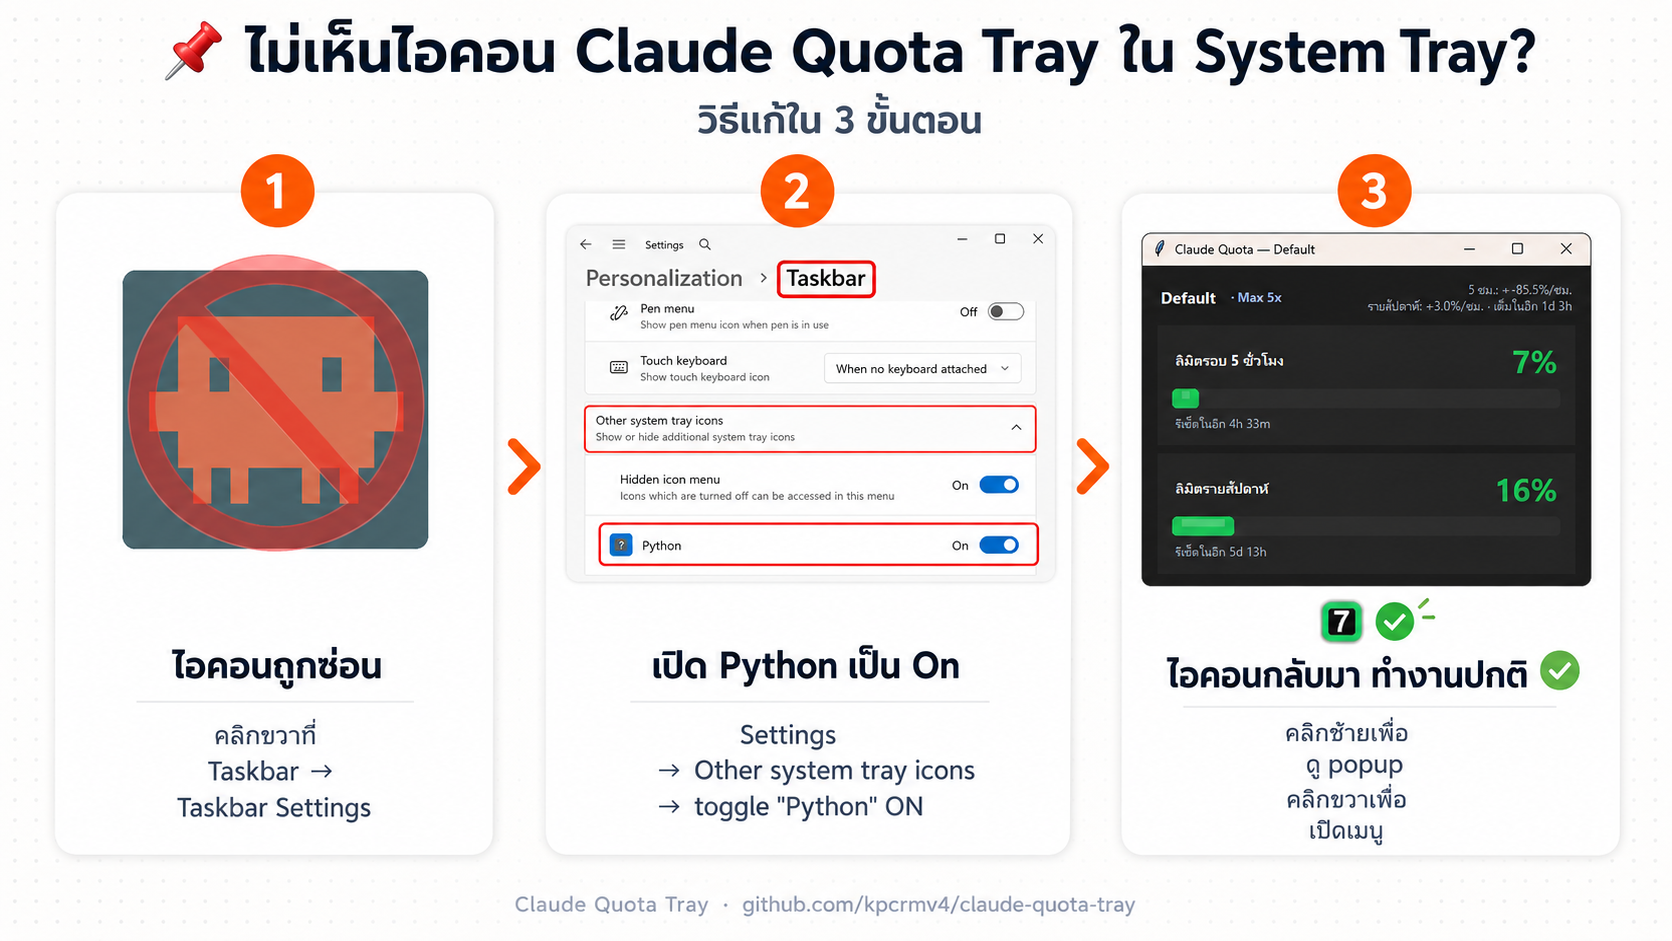
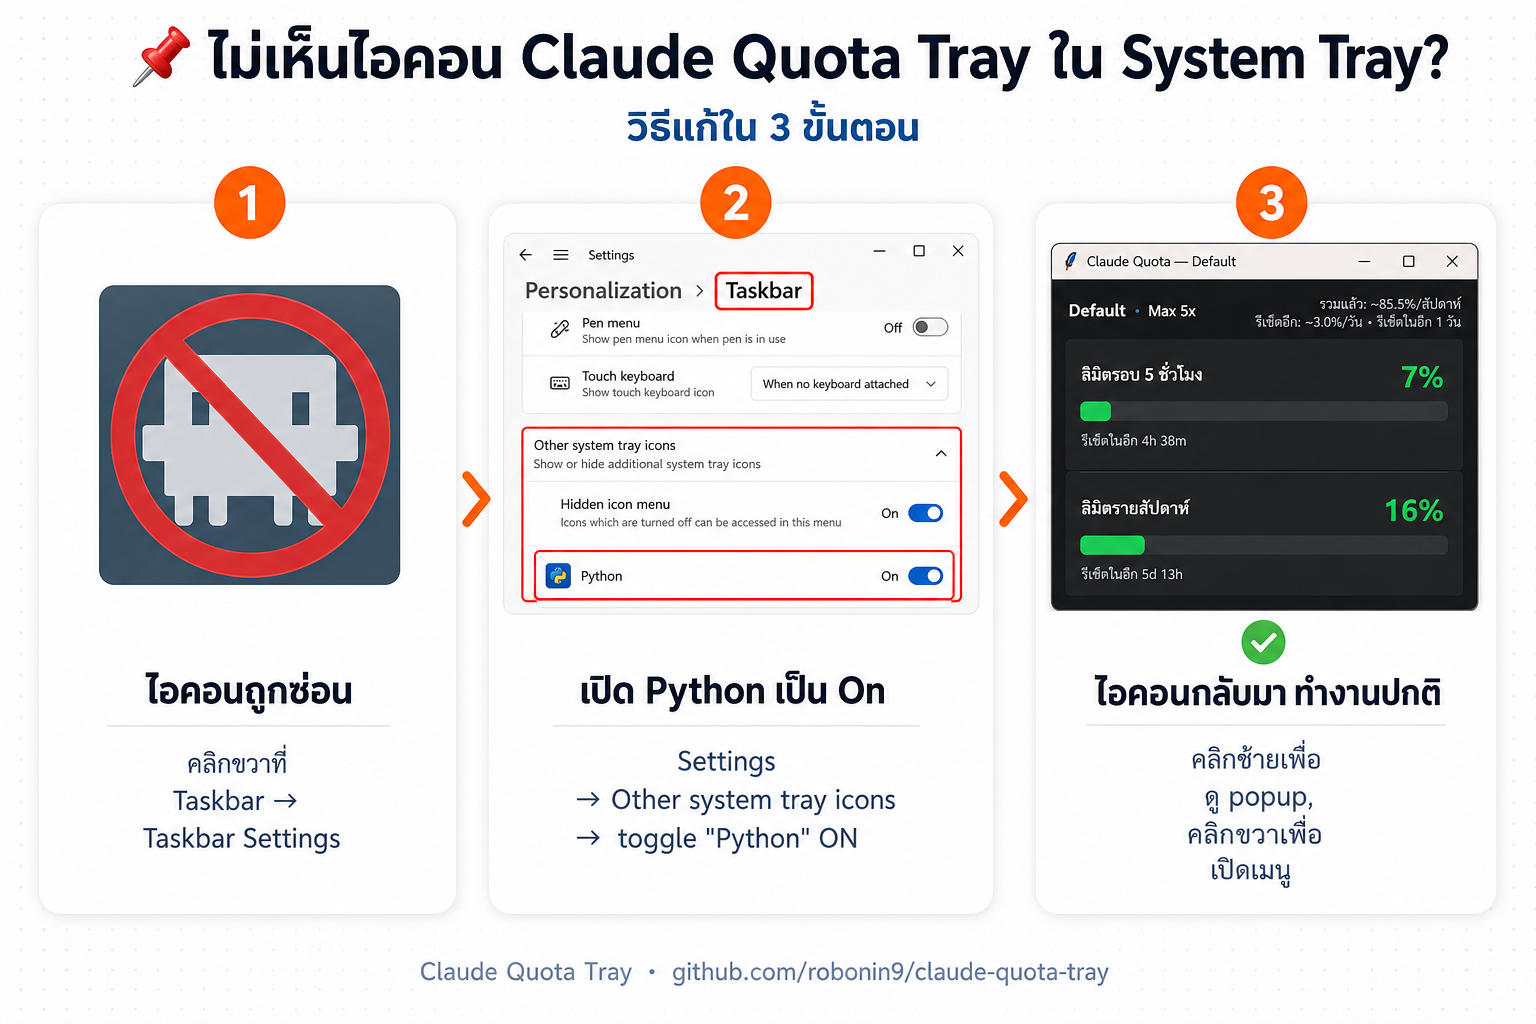
docs: refresh docs, real security policy, and updated promo graphics
- Rewrite SECURITY.md: replace the GitHub placeholder template with a real
  policy (supported 0.3.x, read-only/no-token-storage credential handling,
  how to report a vulnerability, unsigned-build scope notes).
- Document the new 30-day (monthly) history chart range in README.md,
  README.th.md, and CHANGELOG.md, plus the auto retention bump and a link
  to SECURITY.md.
- Regenerate features.png and troubleshooting.png so they show the 30-day
  history panel and the correct robonin9 repo URL.

diff --git a/SECURITY.md b/SECURITY.md
@@ -1,21 +1,64 @@
 # Security Policy
 
-## Supported Versions
+## Supported versions
 
-Use this section to tell people about which versions of your project are
-currently being supported with security updates.
+Only the latest release line receives fixes. This is a small single-developer
+fork, so please always run the most recent version before reporting an issue.
 
 | Version | Supported          |
 | ------- | ------------------ |
-| 5.1.x   | :white_check_mark: |
-| 5.0.x   | :x:                |
-| 4.0.x   | :white_check_mark: |
-| < 4.0   | :x:                |
+| 0.3.x   | :white_check_mark: |
+| < 0.3   | :x:                |
 
-## Reporting a Vulnerability
+## How the app handles your credentials
 
-Use this section to tell people how to report a vulnerability.
+Claude Quota Tray is designed to touch your OAuth credentials as little as
+possible:
 
-Tell them where to go, how often they can expect to get an update on a
-reported vulnerability, what to expect if the vulnerability is accepted or
-declined, etc.
+- **Read-only.** The app only *reads* the Claude OAuth token that already
+  exists on your machine (Claude Desktop, Windows Credential Manager,
+  environment variables, or Claude Code credential files). It never writes,
+  rotates, or modifies your credentials.
+- **No token storage.** The token is held in memory only for the duration of a
+  request. It is **never** written to `settings.json`, `history.db`, or the
+  log. Settings store only a *path* or the `auto` discovery mode — never the
+  token value itself.
+- **Single destination.** The token is sent only to `https://api.anthropic.com`
+  over HTTPS, in a minimal request whose response body is ignored — the app
+  reads usage from the `anthropic-ratelimit-unified-*` response headers only.
+- **Local-only data.** History (`history.db`) stores just timestamps and
+  utilisation percentages. No prompts, completions, account identifiers, or
+  token material are recorded.
+- **Logs are safe to share.** `error.log` records diagnostics and token-refresh
+  events but never the token itself (probes print only a short fingerprint such
+  as `sk-ant...GAAA`).
+
+All of this is auditable — the project is open source (MIT). You can verify the
+auth flow in `src/auth_discovery.py`, `src/token_reader.py`, and the request in
+`src/api_client.py`, or run `python src/token_reader.py --probe` to see exactly
+which source is used (the probe masks the token).
+
+## Reporting a vulnerability
+
+If you believe you have found a security issue:
+
+1. **Preferred:** open a private [GitHub Security Advisory](https://github.com/robonin9/claude-quota-tray/security/advisories/new)
+   on this repository.
+2. Alternatively, open a regular [issue](https://github.com/robonin9/claude-quota-tray/issues)
+   — but please do **not** include tokens, credentials, or other secrets in a
+   public issue.
+
+Please include the version, your OS, reproduction steps, and the impact you
+observed. As a hobby project, responses are best-effort: expect an initial reply
+within a couple of weeks. Accepted issues will be fixed in the next release and
+credited (if you wish); out-of-scope reports will get a short explanation.
+
+## Scope notes
+
+- Released `.exe` / `.app` builds are **unsigned** unless a maintainer signs
+  them — see [docs/SIGNING.md](docs/SIGNING.md). Antivirus/SmartScreen warnings
+  on an unsigned PyInstaller build are expected and are not themselves a
+  vulnerability. When in doubt, run from source.
+- The app's security depends on the integrity of the machine it runs on. If the
+  local credential stores it reads from are already compromised, this tool
+  cannot protect them.

diff --git a/README.th.md b/README.th.md
@@ -107,8 +107,11 @@
 ### ประวัติและกราฟ
 
 - เมนู **History** → กราฟ **Session** และ **Weekly** แยกแผง
-- สลับช่วง **24 ชั่วโมง** หรือ **7 วัน**
+- สลับช่วง **24 ชั่วโมง / 7 วัน / 30 วัน (รายเดือน)**
+- เลื่อนเมาส์บนกราฟเพื่อดูค่า % ของแต่ละช่วงเวลา
 - **ส่งออก CSV** สำหรับวิเคราะห์เอง
+
+> เลือก **30 วัน** ครั้งแรก แอปจะขยายเวลาเก็บประวัติให้อัตโนมัติ (เป็นอย่างน้อย 31 วัน เพิ่มขึ้นเท่านั้น) เพื่อให้กราฟรายเดือนมีข้อมูลครบ
 
 ข้อมูลเก็บใน `history.db` ที่โฟลเดอร์ผู้ใช้ (ค่าเริ่มต้นเก็บ 7 วัน)
 

diff --git a/CHANGELOG.md b/CHANGELOG.md
@@ -42,7 +42,7 @@ Changes compared to upstream v0.2.0. Tray UI, polling, history, and notification
 
 ### Added
 
-- **History UI** — separate Session / Weekly chart panels, 24h / 7d range, CSV export, hover tooltips (`chart_widget.py`).
+- **History UI** — separate Session / Weekly chart panels, **24h / 7d / 30d (monthly)** range, CSV export, hover tooltips (`chart_widget.py`). Selecting the 30-day range bumps `history_retention_days` upward (never down) so the monthly chart fills over time instead of being pruned at the 7-day default.
 - **Desktop widget (Windows)** — always-on-top on-screen quota bar (`desktop_widget.py`).
 - **UX** — status popup → open history; last poll in tooltip; snooze alerts 1h; copy status; open error.log; notify on new release; tray metric (5h / weekly / max); separate alert thresholds per limit; poll backoff on errors; Tk light/dark via `ui_theme.py`.
 - **macOS (beta)** — `app_platform` / `platform_darwin`, unsigned `.app` CI artifact, `scripts/setup_mac.sh`.